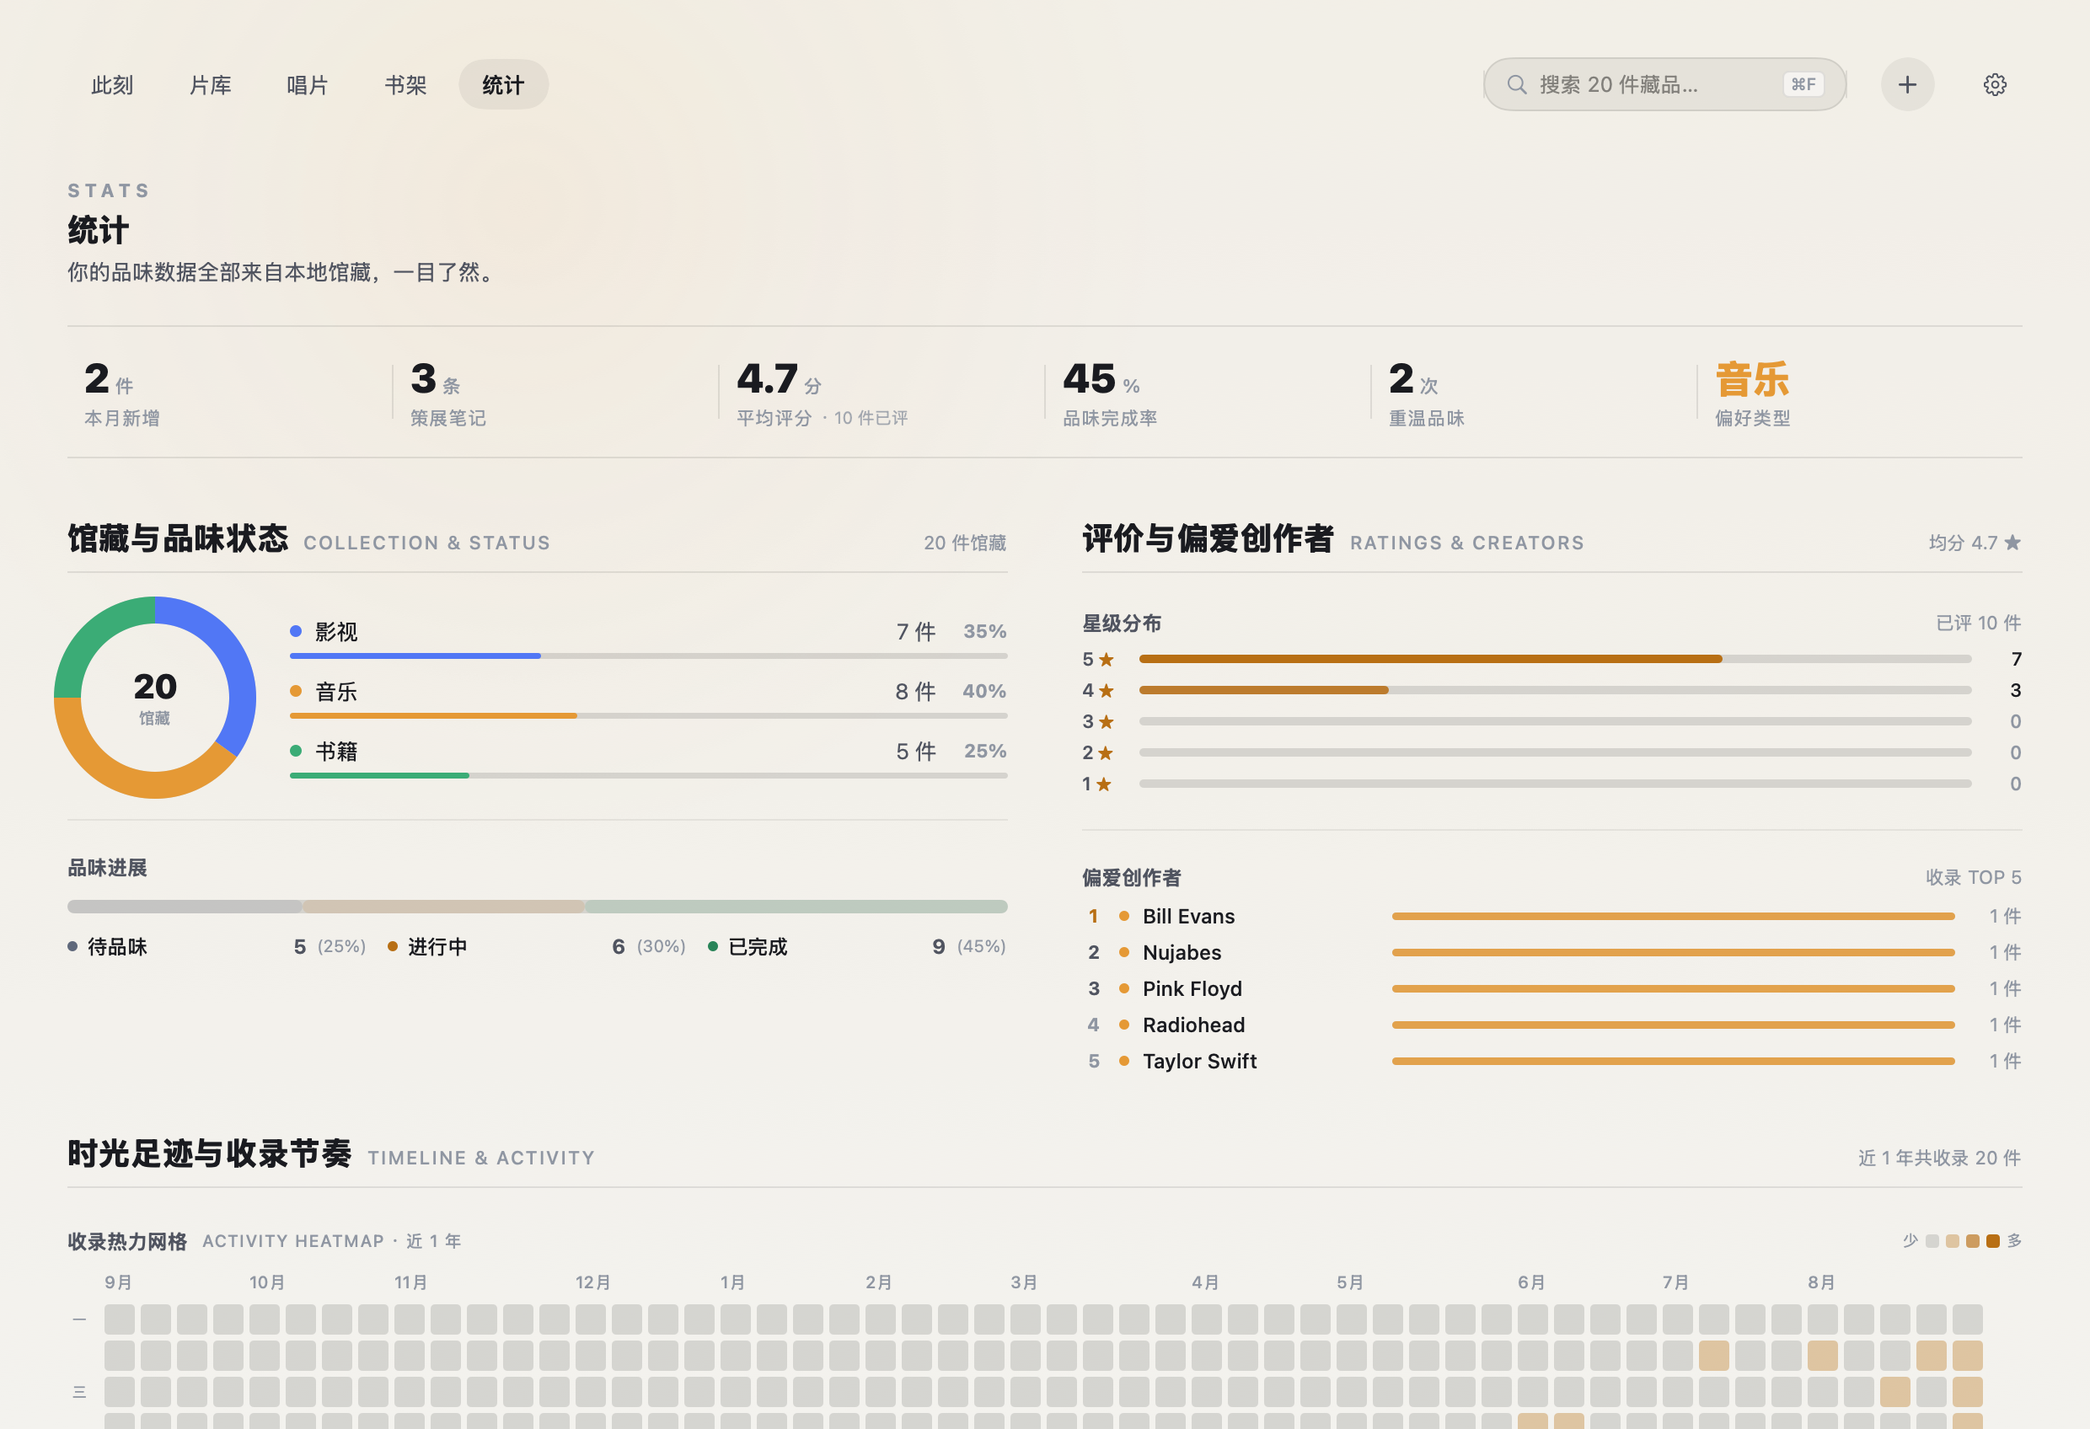
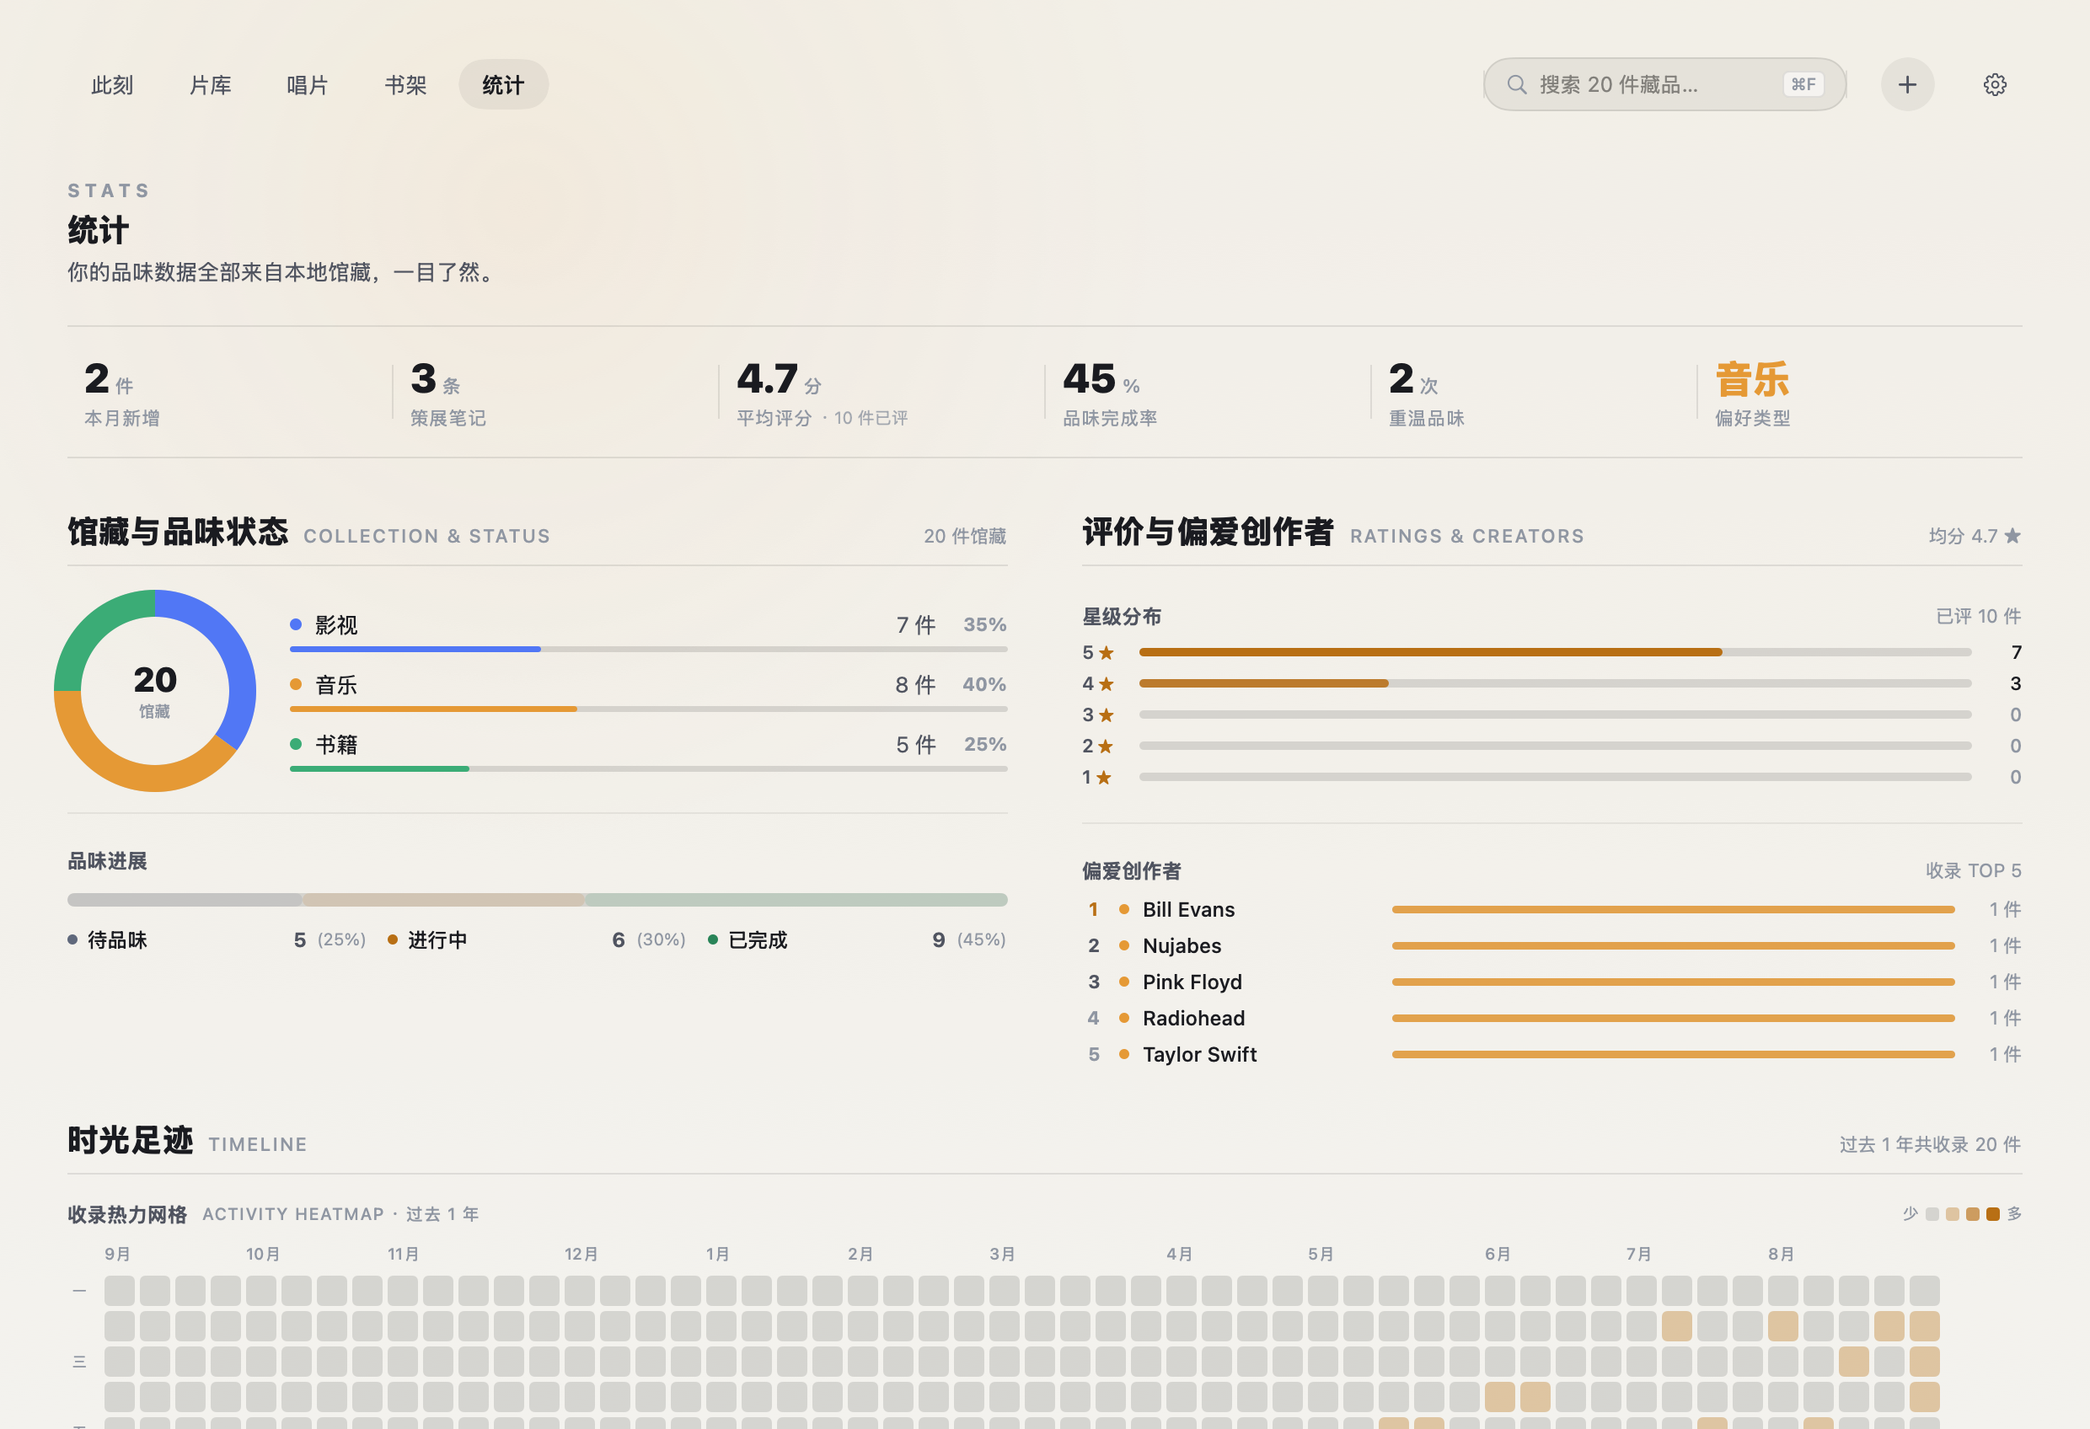
fix(stats): 热力图升级为流体自适应网格彻底杜绝溢出，清理月度柱状图

diff --git a/ArtShelf/Sources/ArtShelf/Features/Stats/StatsView.swift b/ArtShelf/Sources/ArtShelf/Features/Stats/StatsView.swift
@@ -5,8 +5,8 @@ import SwiftUI
 /// 设计哲学：
 /// - 零卡片壳、零多余边框，纯净数据画布与暗房光晕融为一体（去除 AI 仪表盘盒子感）
 /// - 靠空间留白、轴线对齐（Grid Alignment）与克制发丝线（Hairline Rules）建立坚实秩序
-/// - 热力图全宽铺展（近 1 年 52 周），精确标注月份横轴与星期纵轴
-/// - 月度趋势柱状图带基准底线，严格自底向上生长
+/// - 热力图全宽自适应展开（过去 1 年 52 周），精确标注月份横轴与星期纵轴，绝不超出容器
+/// - 彻底移除冗余的月度柱状图，页面极简纯粹、呼吸感充沛
 struct StatsView: View {
 
     @Environment(AppState.self) private var appState
@@ -66,11 +66,9 @@ struct StatsView: View {
         return counts
     }
 
-    /// 热力图月份横轴标签：计算每隔一个月对应周的横向偏移与月份名
-    private var heatmapMonthLabels: [(offset: CGFloat, label: String)] {
+    /// 热力图月份横轴标签：根据当前动态计算出的格子 side 和 spacing 唯一定位
+    private func heatmapMonthLabels(side: CGFloat, spacing: CGFloat) -> [(offset: CGFloat, label: String)] {
         let cal = Calendar.current
-        let side: CGFloat = 18
-        let spacing: CGFloat = 3.5
         var labels: [(CGFloat, String)] = []
         var lastMonth = -1
         var lastOffset: CGFloat = -100
@@ -79,32 +77,13 @@ struct StatsView: View {
             let weekDate = cal.date(byAdding: .weekOfYear, value: week, to: heatmapStart)!
             let month = cal.component(.month, from: weekDate)
             let offset = CGFloat(week) * (side + spacing)
-            if month != lastMonth && (offset - lastOffset) >= 42 {
+            if month != lastMonth && (offset - lastOffset) >= 36 {
                 labels.append((offset, "\(month)月"))
                 lastMonth = month
                 lastOffset = offset
             }
         }
         return labels
-    }
-
-    /// 近 6 个月收录（旧→新）：月份标签 + 各类型件数
-    private var monthlyTrend: [(label: String, total: Int, counts: [MediaType: Int])] {
-        let cal = Calendar.current
-        var months: [(String, Int, [MediaType: Int])] = []
-        for back in (0..<6).reversed() {
-            let monthDate = cal.date(byAdding: .month, value: -back, to: Date())!
-            let comps = cal.dateComponents([.year, .month], from: monthDate)
-            var counts: [MediaType: Int] = [:]
-            for item in store.items {
-                let ic = cal.dateComponents([.year, .month], from: item.dateAdded)
-                if ic.year == comps.year && ic.month == comps.month {
-                    counts[item.type, default: 0] += 1
-                }
-            }
-            months.append(("\(comps.month!)月", counts.values.reduce(0, +), counts))
-        }
-        return months
     }
 
     /// 创作者聚合榜（收录件数降序前 5；并列按名字排序保持稳定）
@@ -187,7 +166,7 @@ struct StatsView: View {
     // MARK: - Editorial 画布主体
 
     private var editorialContent: some View {
-        VStack(alignment: .leading, spacing: 36) {
+        VStack(alignment: .leading, spacing: 32) {
             // 1. 顶部概览数据排（无边框，优雅发丝线分割）
             overviewRow
 
@@ -197,10 +176,10 @@ struct StatsView: View {
                 ratingsAndCreatorsSection
             }
 
-            // 3. 底层时光足迹与收录节奏（全宽展开）
+            // 3. 底层时光足迹（全宽响应式热力图，彻底移除柱状图）
             timelineSection
         }
-        .padding(.bottom, 54)
+        .padding(.bottom, 48)
     }
 
     // MARK: - 1. 概览数据排 (Overview Row)
@@ -608,45 +587,33 @@ struct StatsView: View {
         }
     }
 
-    // MARK: - 4. 时光足迹与收录节奏 (Timeline & Activity - 全宽铺展)
+    // MARK: - 4. 时光足迹 (Timeline - 全宽响应式热力图)
 
     private var timelineSection: some View {
         let counts = heatmapCounts
         let total = counts.values.reduce(0, +)
 
-        return VStack(alignment: .leading, spacing: 24) {
+        return VStack(alignment: .leading, spacing: 16) {
             sectionTitleRow(
-                title: "时光足迹与收录节奏",
-                subtitle: "TIMELINE & ACTIVITY",
-                note: "近 1 年共收录 \(total) 件"
+                title: "时光足迹",
+                subtitle: "TIMELINE",
+                note: "过去 1 年共收录 \(total) 件"
             )
 
-            // 1. 全宽收录热力网格（52 周 · 满幅铺开 · 带月份横轴）
-            heatmapFullWidthSection(counts: counts)
-
-            // 细发丝分割线
-            Rectangle()
-                .fill(Theme.rule.opacity(0.7))
-                .frame(height: 1)
-                .padding(.vertical, 4)
-
-            // 2. 近 6 个月趋势（严格自底向上生长 · 贯通基准底线）
-            monthlyTrendSection
+            // 全宽响应式收录热力网格（52 周 · 动态自适应当前窗口宽度 · 严禁超出视口）
+            heatmapResponsiveSection(counts: counts)
         }
         .frame(maxWidth: .infinity, alignment: .leading)
     }
 
-    /// 全宽热力网格：52 周（1 年）满幅展开，带月份刻度与对齐星期
-    private func heatmapFullWidthSection(counts: [Int: Int]) -> some View {
-        let side: CGFloat = 18
-        let spacing: CGFloat = 3.5
-
-        return VStack(alignment: .leading, spacing: 10) {
+    /// 全宽自适应热力网格：通过 GeometryReader 动态计算方格边长，精准贴合窗口，绝不溢出
+    private func heatmapResponsiveSection(counts: [Int: Int]) -> some View {
+        VStack(alignment: .leading, spacing: 10) {
             HStack {
                 Text("收录热力网格")
                     .font(.system(size: 12, weight: .bold))
                     .foregroundStyle(Theme.ink2)
-                Text("ACTIVITY HEATMAP · 近 1 年")
+                Text("ACTIVITY HEATMAP · 过去 1 年")
                     .font(.system(size: 10, weight: .medium))
                     .tracking(0.6)
                     .foregroundStyle(Theme.ink3)
@@ -654,51 +621,65 @@ struct StatsView: View {
                 heatmapLegend
             }
 
-            VStack(alignment: .leading, spacing: 6) {
-                // 顶部月份横轴
-                ZStack(alignment: .leading) {
-                    ForEach(Array(heatmapMonthLabels.enumerated()), id: \.offset) { _, item in
-                        Text(item.label)
-                            .font(.system(size: 10, weight: .medium))
-                            .foregroundStyle(Theme.ink3)
-                            .offset(x: item.offset)
-                    }
-                }
-                .frame(height: 14)
-                .padding(.leading, 22) // 避开星期导引文字宽
+            GeometryReader { geo in
+                let availableWidth = max(240, geo.size.width)
+                let weekCount = 52
+                let labelWidth: CGFloat = 14
+                let leadSpacing: CGFloat = 8
+                let spacing: CGFloat = 3.0
+                let gridAvailable = max(100, availableWidth - labelWidth - leadSpacing)
+                // 动态计算每个晶格的精确边长（确保 52 列晶格 + 间距永远 <= 可用宽度）
+                let side = max(6.0, floor((gridAvailable - CGFloat(weekCount - 1) * spacing) / CGFloat(weekCount)))
+                let actualGridWidth = CGFloat(weekCount) * side + CGFloat(weekCount - 1) * spacing
 
-                // 网格矩阵
-                HStack(alignment: .top, spacing: 8) {
-                    // 星期标签
-                    VStack(spacing: spacing) {
-                        ForEach(0..<7, id: \.self) { day in
-                            Group {
-                                switch day {
-                                case 0: Text("一")
-                                case 2: Text("三")
-                                case 4: Text("五")
-                                case 6: Text("日")
-                                default: Text("")
-                                }
-                            }
-                            .font(.system(size: 8.5, weight: .medium))
-                            .foregroundStyle(Theme.ink3)
-                            .frame(width: 14, height: side)
+                VStack(alignment: .leading, spacing: 6) {
+                    // 顶部月份横轴
+                    ZStack(alignment: .leading) {
+                        ForEach(Array(heatmapMonthLabels(side: side, spacing: spacing).enumerated()), id: \.offset) { _, item in
+                            Text(item.label)
+                                .font(.system(size: 9.5, weight: .medium))
+                                .foregroundStyle(Theme.ink3)
+                                .offset(x: item.offset)
                         }
                     }
+                    .frame(width: actualGridWidth, height: 13, alignment: .leading)
+                    .padding(.leading, labelWidth + leadSpacing)
 
-                    // 52 列晶格
-                    HStack(spacing: spacing) {
-                        ForEach(0..<52, id: \.self) { week in
-                            VStack(spacing: spacing) {
-                                ForEach(0..<7, id: \.self) { weekday in
-                                    heatmapCell(offset: week * 7 + weekday, counts: counts, side: side)
+                    // 星期导引 + 52 列晶格
+                    HStack(alignment: .top, spacing: leadSpacing) {
+                        // 星期标签
+                        VStack(spacing: spacing) {
+                            ForEach(0..<7, id: \.self) { day in
+                                Group {
+                                    switch day {
+                                    case 0: Text("一")
+                                    case 2: Text("三")
+                                    case 4: Text("五")
+                                    case 6: Text("日")
+                                    default: Text("")
+                                    }
+                                }
+                                .font(.system(size: 8.5, weight: .medium))
+                                .foregroundStyle(Theme.ink3)
+                                .frame(width: labelWidth, height: side)
+                            }
+                        }
+
+                        // 52 列晶格矩阵
+                        HStack(spacing: spacing) {
+                            ForEach(0..<weekCount, id: \.self) { week in
+                                VStack(spacing: spacing) {
+                                    ForEach(0..<7, id: \.self) { weekday in
+                                        heatmapCell(offset: week * 7 + weekday, counts: counts, side: side)
+                                    }
                                 }
                             }
                         }
                     }
                 }
+                .frame(maxWidth: .infinity, alignment: .leading)
             }
+            .frame(height: 126) // 明确指定高度，确保在各种窗口大小下稳定渲染
         }
     }
 
@@ -708,7 +689,7 @@ struct StatsView: View {
         let isFuture = date > cal.startOfDay(for: Date())
         let count = isFuture ? 0 : (counts[offset] ?? 0)
 
-        return RoundedRectangle(cornerRadius: 2.5, style: .continuous)
+        return RoundedRectangle(cornerRadius: max(1.5, side * 0.18), style: .continuous)
             .fill(isFuture ? Color.clear : heatColor(count))
             .frame(width: side, height: side)
             .help("\(date.formatted(.dateTime.month(.twoDigits).day(.twoDigits))) 收录 \(count) 件")
@@ -736,98 +717,6 @@ struct StatsView: View {
             Text("多")
                 .font(.system(size: 9.5))
                 .foregroundStyle(Theme.ink3)
-        }
-    }
-
-    // MARK: - 5. 近 6 个月月度趋势（严格自底向上拔起 · 贯穿基准线）
-
-    private var monthlyTrendSection: some View {
-        let months = monthlyTrend
-        let maxCount = max(1, months.map(\.total).max() ?? 0)
-
-        return VStack(alignment: .leading, spacing: 14) {
-            HStack {
-                Text("近 6 个月收录节奏")
-                    .font(.system(size: 12, weight: .bold))
-                    .foregroundStyle(Theme.ink2)
-                Text("MONTHLY RHYTHM")
-                    .font(.system(size: 10, weight: .medium))
-                    .tracking(0.6)
-                    .foregroundStyle(Theme.ink3)
-                Spacer()
-                trendLegend
-            }
-
-            VStack(spacing: 0) {
-                // 柱体列组（alignment: .bottom 严格从底线拔起）
-                HStack(alignment: .bottom, spacing: 32) {
-                    ForEach(Array(months.enumerated()), id: \.offset) { _, month in
-                        VStack(spacing: 6) {
-                            Text("\(month.total)")
-                                .font(.system(size: 10.5, weight: .bold))
-                                .foregroundStyle(month.total > 0 ? Theme.ink : Theme.ink3)
-
-                            ZStack(alignment: .bottom) {
-                                trendStackedBar(month: month, maxCount: maxCount, maxHeight: 72)
-                            }
-                            .frame(height: 72, alignment: .bottom)
-                        }
-                        .frame(maxWidth: .infinity)
-                    }
-                }
-
-                // 贯通的发丝基准底线（所有柱子踩在基准线上）
-                Rectangle()
-                    .fill(Theme.rule)
-                    .frame(height: 1)
-                    .padding(.top, 4)
-
-                // 月份标签行（位于基线正下方）
-                HStack(spacing: 32) {
-                    ForEach(Array(months.enumerated()), id: \.offset) { _, month in
-                        Text(month.label)
-                            .font(.system(size: 11, weight: .medium))
-                            .foregroundStyle(Theme.ink2)
-                            .frame(maxWidth: .infinity)
-                    }
-                }
-                .padding(.top, 6)
-            }
-        }
-    }
-
-    private func trendStackedBar(month: (label: String, total: Int, counts: [MediaType: Int]), maxCount: Int, maxHeight: CGFloat) -> some View {
-        let barHeight = max(5, maxHeight * CGFloat(month.total) / CGFloat(maxCount))
-        return Group {
-            if month.total == 0 {
-                Capsule().fill(Theme.track).frame(width: 22, height: 3)
-            } else {
-                VStack(spacing: 0) {
-                    ForEach(MediaType.allCases) { type in
-                        let count = month.counts[type] ?? 0
-                        if count > 0 {
-                            Rectangle()
-                                .fill(typeColor(type))
-                                .frame(height: barHeight * CGFloat(count) / CGFloat(month.total))
-                        }
-                    }
-                }
-                .frame(width: 22, height: barHeight)
-                .clipShape(UnevenRoundedRectangle(topLeadingRadius: 3.5, bottomLeadingRadius: 0, bottomTrailingRadius: 0, topTrailingRadius: 3.5, style: .continuous))
-            }
-        }
-    }
-
-    private var trendLegend: some View {
-        HStack(spacing: 8) {
-            ForEach(MediaType.allCases) { type in
-                HStack(spacing: 4) {
-                    Circle().fill(typeColor(type)).frame(width: 5, height: 5)
-                    Text(type.rawValue)
-                        .font(.system(size: 9.5))
-                        .foregroundStyle(Theme.ink3)
-                }
-            }
         }
     }
 
